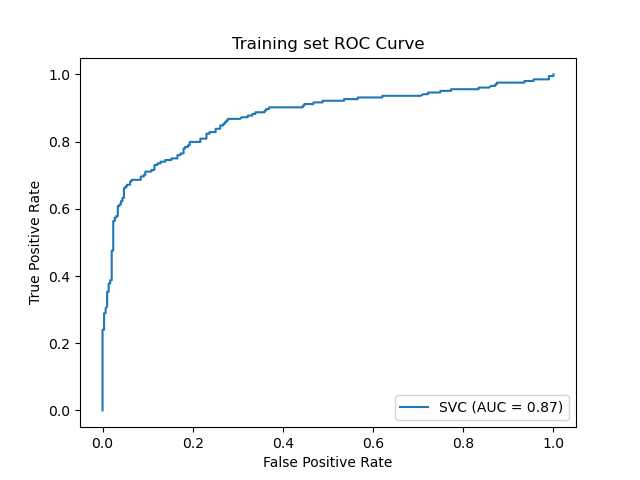
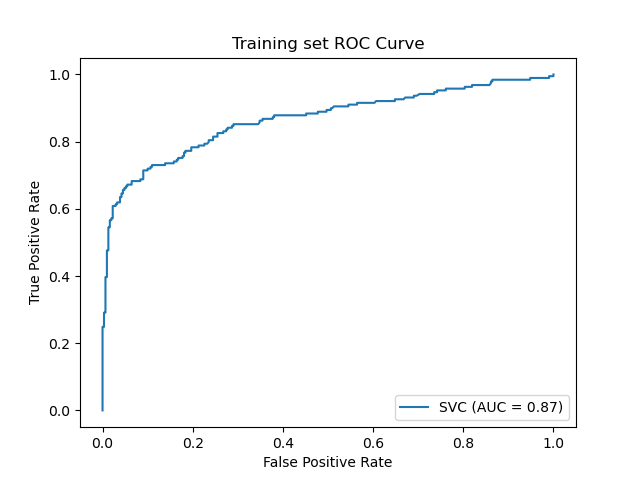
log prevalence, precision, and recall

diff --git a/titanic/train_test_validation.py b/titanic/train_test_validation.py
@@ -6,16 +6,20 @@ import argparse
 import logging
 import pandas as pd
 from sklearn import svm
-from sklearn.metrics import accuracy_score, plot_roc_curve
+from sklearn.metrics import confusion_matrix
+from sklearn.metrics import accuracy_score
+from sklearn.metrics import precision_score
+from sklearn.metrics import recall_score
+from sklearn.metrics import plot_roc_curve
 from sklearn.model_selection import train_test_split
 from sklearn.preprocessing import scale
 import matplotlib.pyplot as plt
 
 
-def main():
+def read_data():
     """
 
-    Reads training and test files ad returns them as dataframe.
+    Reads training and test files and returns them as dataframe.
 
     Parameters
     ----------
@@ -59,6 +63,7 @@ def main():
     test_df = pd.read_csv(test_file)
 
     size_total = len(train_df) + len(test_df)
+    logging.info('Total training set size: {} (%100)'.format(size_total))
     logging.info('Size of training set: {} (%{:.2f})'.format(len(train_df), len(train_df)/size_total*100))
     logging.info('Size of test set: {} (%{:.2f})'.format(len(test_df), len(test_df)/size_total*100))
 
@@ -111,7 +116,7 @@ def feature_engineering(train_df, test_df):
     return train_df, test_df
 
 
-def train_and_test(train_df):
+def train_and_test(train_df, test_df):
     """
 
     Train and test using SVM and return predictions.
@@ -134,20 +139,41 @@ def train_and_test(train_df):
     clf = svm.SVC(C=C)
     clf.fit(train_df.iloc[:, 1:], train_df['Survived'])
     # create training and test split
-    x_train, x_test, y_train, y_test = train_test_split(train_df.iloc[:, 1:], train_df.iloc[:,0], test_size=0.3)#,
+    x_train, x_val, y_train, y_val = train_test_split(train_df.iloc[:, 1:], train_df.iloc[:,0], test_size=0.3)#,
 
     pred_train = clf.predict(x_train)
-    pred_test = clf.predict(x_test)
+    pred_val = clf.predict(x_val)
+    size_total = len(x_train) + len(x_val) + len(test_df)
+
+    prev_train = sum(y_train)/len(y_train)
+    prev_val = sum(y_val)/len(y_val)
+
+    logging.info('prevalence of training dataset: {}'.format(prev_train))
+    logging.info('prevalence of validation dataset: {}'.format(prev_val))
+
+    logging.info('Size of training set: {} (%{:.2f})'.format(len(x_train), len(x_train)/size_total*100))
+    logging.info('Size of validation set: {} (%{:.2f})'.format(len(x_val), len(x_val)/size_total*100))
+    logging.info('Size of test set: {} (%{:.2f})'.format(len(test_df), len(test_df)/size_total*100))
 
     logging.info('training accuracy: {}'.format(accuracy_score(y_train, pred_train)))
-    logging.info('validation accuracy: {}'.format(accuracy_score(y_test, pred_test)))
+    logging.info('validation accuracy: {}'.format(accuracy_score(y_val, pred_val)))
+
+    print('training accuracy: {} precision: {} recall: {} '.format(accuracy_score(y_train, pred_train), precision_score(y_train, pred_train), recall_score(y_train, pred_train)))
+    print('validation accuracy: {} precision: {} recall: {}'.format(accuracy_score(y_val, pred_val), precision_score(y_val, pred_val), recall_score(y_val, pred_val)))
+
+    print('training conf matrix: \n{}'.format(confusion_matrix(y_train, pred_train)))
+    print('validation conf matrix: \n{}'.format(confusion_matrix(y_val, pred_val)))
+
+    logging.info('')
+    logging.info('Predictions training: \n{}'.format(pred_train))
+    logging.info('Predictions validation: \n{}'.format(pred_val))
 
     plot_roc_curve(clf, x_train, y_train)
     plt.title('Training set ROC Curve')
     plt.savefig('plots/training_ROC.png')
     plt.show()
     plt.clf()
-    plot_roc_curve(clf, x_test, y_test)
+    plot_roc_curve(clf, x_val, y_val)
     plt.title('Validation set ROC Curve')
     plt.savefig('plots/validation_ROC.png')
     plt.show()
@@ -159,11 +185,11 @@ if __name__ == '__main__':
     start = time.time()
     # set up logger
     FORMAT = '%(asctime)-15s %(levelname)s-8s %(message)s'
-    logging.basicConfig(filename='logs/run_{}.log'.format(time.strftime("%Y.%m.%d_%H.%M.%S"), time.localtime()), format=FORMAT, level=logging.DEBUG)
+    logging.basicConfig(filename='logs/run_{}.log'.format(time.strftime("%Y.%m.%d_%H.%M.%S"), time.localtime()), format=FORMAT, level=logging.INFO)
 
-    train_df, test_df = main()
+    train_df, test_df = read_data()
     train_df, test_df = feature_engineering(train_df, test_df)
-    model = train_and_test(train_df)
+    model = train_and_test(train_df, test_df)
 
     predictions = model.predict(test_df)
     print('End')
